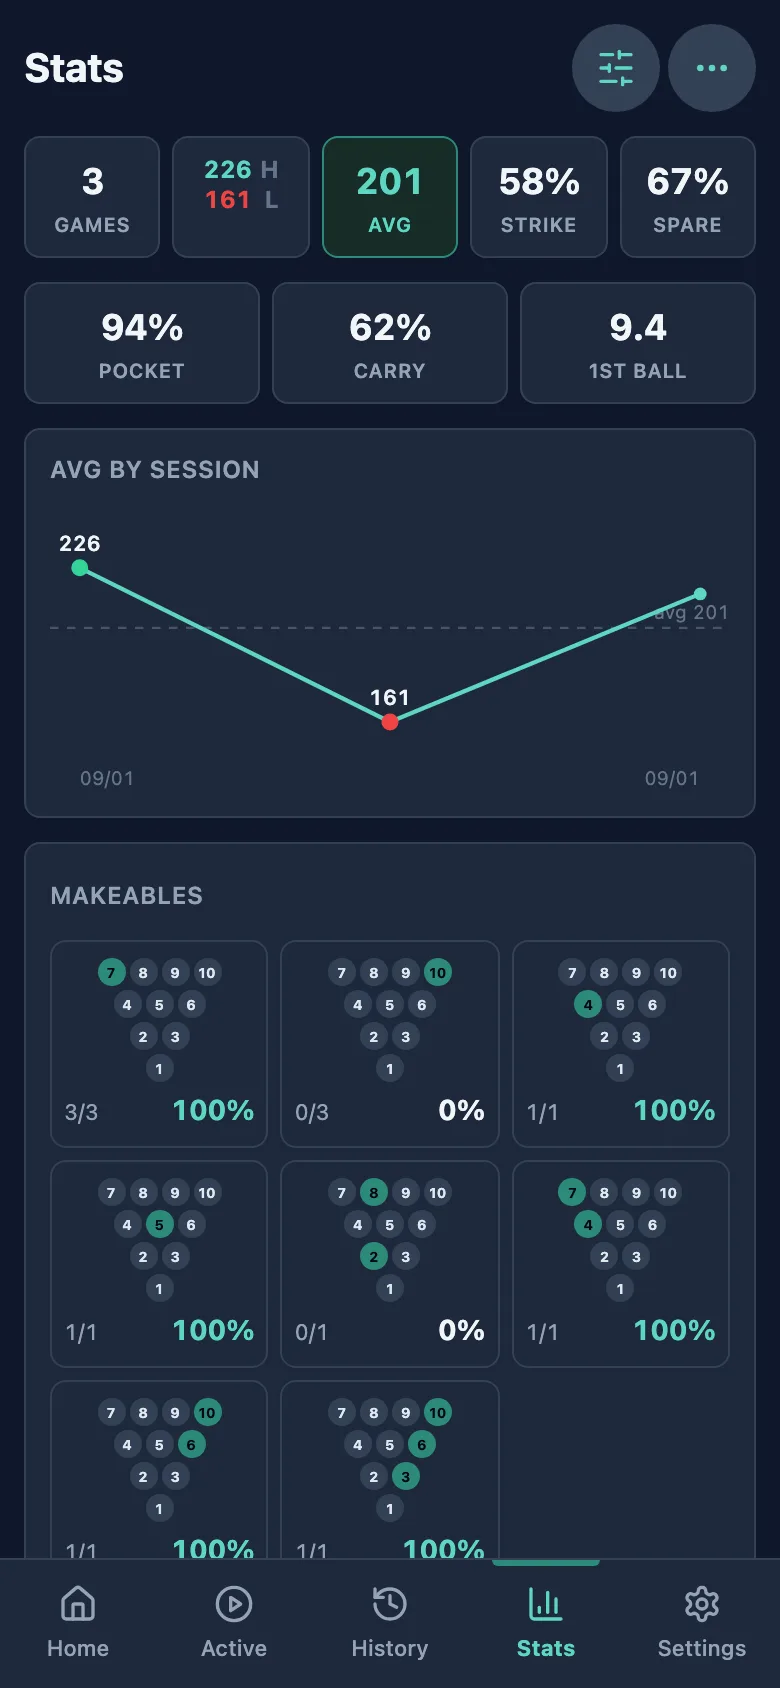
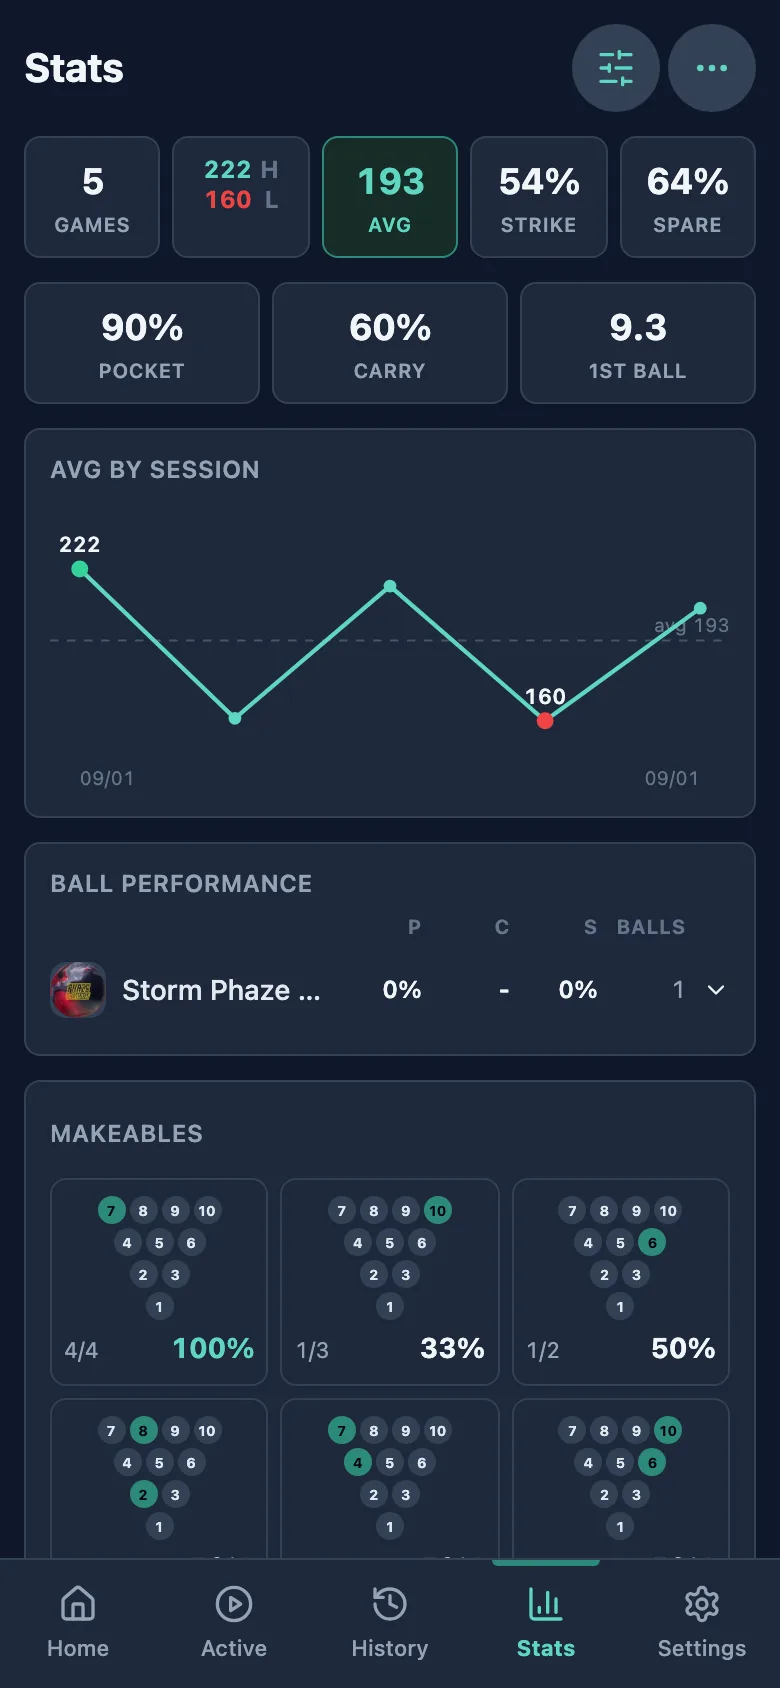
feat(landing): four screens, in a phone, with a shot worth showing
The scorer shot now stands on the first ball of the tenth with nine
frames scored, three pins standing, a ball named and both lines written
down. A part-filled card mid-game showed the input working but not what
the app is for; this one shows the whole thing at once.

Adds the lane view and the arsenal, and takes the trend from three
nights to five so the chart is a line rather than a zigzag between two
points. The arsenal is filled from the catalog with balls that carry
real artwork: a list of grey placeholders is a worse advert than no
list.

Each screenshot sits in a phone drawn in CSS. It scales to any width,
follows the theme and costs nothing to download. The screen carries a
strip of the app's own background above the image, because a captured
screen has no status bar and the camera cut-out would otherwise sit on
the app's header rather than above it.

Two things the capture had to learn. Theme now flips by attribute
instead of by reload: a shot is not saved until Next, so reloading the
scorer threw away the pins, the ball and the line the picture exists to
show, and the game then never finished or counted. And the line is
filled twice, because choosing a ball seeds the line a tick later and
overwrote the first pass.

Games are written as frames rather than as a flat list of shots, so the
count cannot drift: a strike spends one shot and everything else spends
two, and one entry too many meant the last click found no Next button.

diff --git a/index.html b/index.html
@@ -97,6 +97,14 @@
         --felt: #1b5148;
         --on-felt: #ffffff;
       }
+      @media (prefers-color-scheme: light) {
+        :root:not([data-theme="dark"]) .phone:not(.phone-dark) {
+          --shot-bg: #fff8ed;
+        }
+      }
+      :root[data-theme="light"] .phone:not(.phone-dark) {
+        --shot-bg: #fff8ed;
+      }
       :root[data-theme="dark"] {
         --bg: #0f172a;
         --card: #1e293b;
@@ -143,16 +151,59 @@
       .lede em { font-style: italic; color: var(--ink); }
       .cta-note { font-size: 0.9rem; color: var(--ink-3); margin: 0.75rem 0 0; }
       .shots {
-        display: flex;
-        gap: 0.9rem;
-        justify-content: center;
+        display: grid;
+        grid-template-columns: repeat(2, minmax(0, 1fr));
+        gap: 1.4rem 0.9rem;
         margin: 2.75rem 0 0;
+      }
+      @media (min-width: 34rem) {
+        .shots {
+          grid-template-columns: repeat(4, minmax(0, 1fr));
+        }
       }
       .shots figure {
         margin: 0;
-        flex: 1 1 0;
-        max-width: 15rem;
         min-width: 0;
+      }
+      /*
+       * A phone drawn in CSS rather than shipped as a picture: it scales to any
+       * width, follows the theme, and costs nothing to download.
+       *
+       * The screen carries a strip of the app's own background above the
+       * screenshot. A captured screen has no status bar, so without it the
+       * camera cut-out would sit on top of the app's header instead of above
+       * it, and the frame would read as a sticker rather than as a device.
+       */
+      .phone {
+        --shot-bg: #0f172a;
+        padding: 0.28rem;
+        border-radius: 1.5rem;
+        background: linear-gradient(160deg, #52525b, #27272a 40%, #3f3f46);
+        box-shadow: 0 10px 26px rgb(0 0 0 / 0.28);
+      }
+      /* The lane view paints its own dark sky in either theme, so its strip
+         cannot follow the page. */
+      .phone-dark {
+        --shot-bg: #0f172a;
+      }
+      .screen {
+        position: relative;
+        overflow: hidden;
+        border-radius: 1.28rem;
+        background: var(--shot-bg);
+        padding-top: 5.2%;
+      }
+      /* The camera cut-out. */
+      .screen::after {
+        content: "";
+        position: absolute;
+        top: 1.5%;
+        left: 50%;
+        transform: translateX(-50%);
+        width: 26%;
+        height: 2.7%;
+        border-radius: 999px;
+        background: #000;
       }
       .shots picture {
         display: block;
@@ -161,13 +212,11 @@
         width: 100%;
         height: auto;
         display: block;
-        border-radius: 1.1rem;
-        border: 1px solid var(--edge);
-        box-shadow: 0 12px 30px rgb(0 0 0 / 0.18);
       }
       .shots figcaption {
         margin-top: 0.6rem;
-        font-size: 0.85rem;
+        font-size: 0.8rem;
+        line-height: 1.4;
         color: var(--ink-3);
         text-align: center;
       }
@@ -214,36 +263,68 @@
       <!--
         Real screens, captured from the running app by scripts/capture-shots.mjs
         rather than drawn. Sized in the markup so the page does not jump when
-        they land, and eager rather than lazy because both sit above the fold on
-        a phone, where a lazy image is a visible gap.
+        they land, and eager rather than lazy because they sit at the top of the
+        page on a phone, where a lazy image is a visible gap.
 
-        Each screen is shot in both themes. The page claims the app looks nice,
-        and a dark screenshot on the cream background argues the other way.
+        Each screen is shot in both themes and picked with prefers-color-scheme.
+        The page claims the app looks nice, and a dark screenshot on the cream
+        background argues the other way. The lane view is the exception: it
+        paints its own wood rather than the app's colour tokens, so one file
+        serves both.
       -->
       <section class="shots">
         <figure>
-          <picture>
+          <div class="phone"><div class="screen">
+            <picture>
             <source srcset="/shots/scorer-light.webp" media="(prefers-color-scheme: light)" />
             <img
               src="/shots/scorer.webp"
               width="780"
               height="1688"
-              alt="A Headpin scorecard part way through a game, with three strikes and a spare, and the pin grid ready for the next shot."
+              alt="A Headpin scorecard on the tenth frame, nine frames scored, three pins left standing, with the ball and the line written down beside it."
             />
           </picture>
+          </div></div>
           <figcaption>Tap the pins. It does the maths.</figcaption>
         </figure>
         <figure>
-          <picture>
+          <div class="phone phone-dark"><div class="screen">
+            <img
+              src="/shots/line.webp"
+              width="780"
+              height="1688"
+              alt="The Headpin lane view, showing a ball path from laydown through the target arrows to the breakpoint and into the pocket."
+            />
+          </div></div>
+          <figcaption>See the line you threw.</figcaption>
+        </figure>
+        <figure>
+          <div class="phone"><div class="screen">
+            <picture>
             <source srcset="/shots/stats-light.webp" media="(prefers-color-scheme: light)" />
             <img
               src="/shots/stats.webp"
               width="780"
               height="1688"
-              alt="The Headpin stats screen showing a 201 average across three games, strike and spare percentages, and a line chart of average by session."
+              alt="The Headpin stats screen showing a 193 average across five games, strike and spare percentages, and a line chart of average by session."
             />
           </picture>
+          </div></div>
           <figcaption>Watch your average move.</figcaption>
+        </figure>
+        <figure>
+          <div class="phone"><div class="screen">
+            <picture>
+            <source srcset="/shots/arsenal-light.webp" media="(prefers-color-scheme: light)" />
+            <img
+              src="/shots/arsenal.webp"
+              width="780"
+              height="1688"
+              alt="The Headpin arsenal screen listing five bowling balls with their coverstock, RG and differential."
+            />
+          </picture>
+          </div></div>
+          <figcaption>Keep your arsenal in it.</figcaption>
         </figure>
       </section>
 
